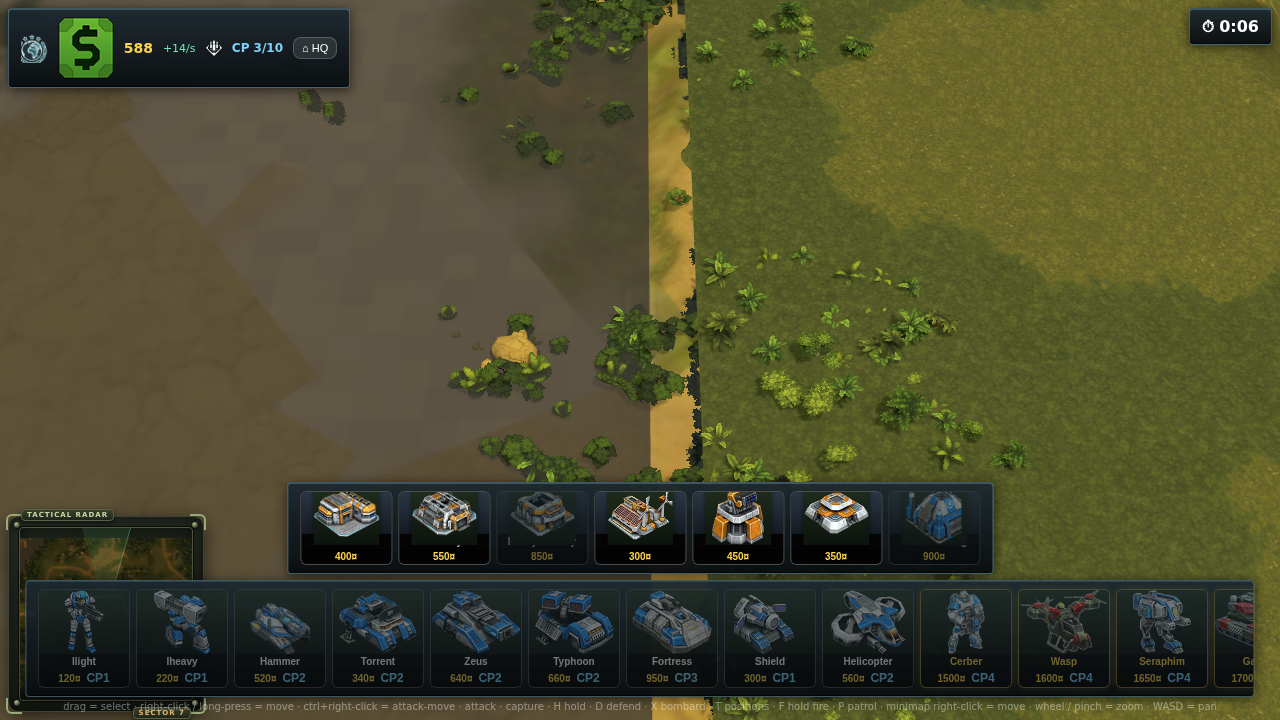
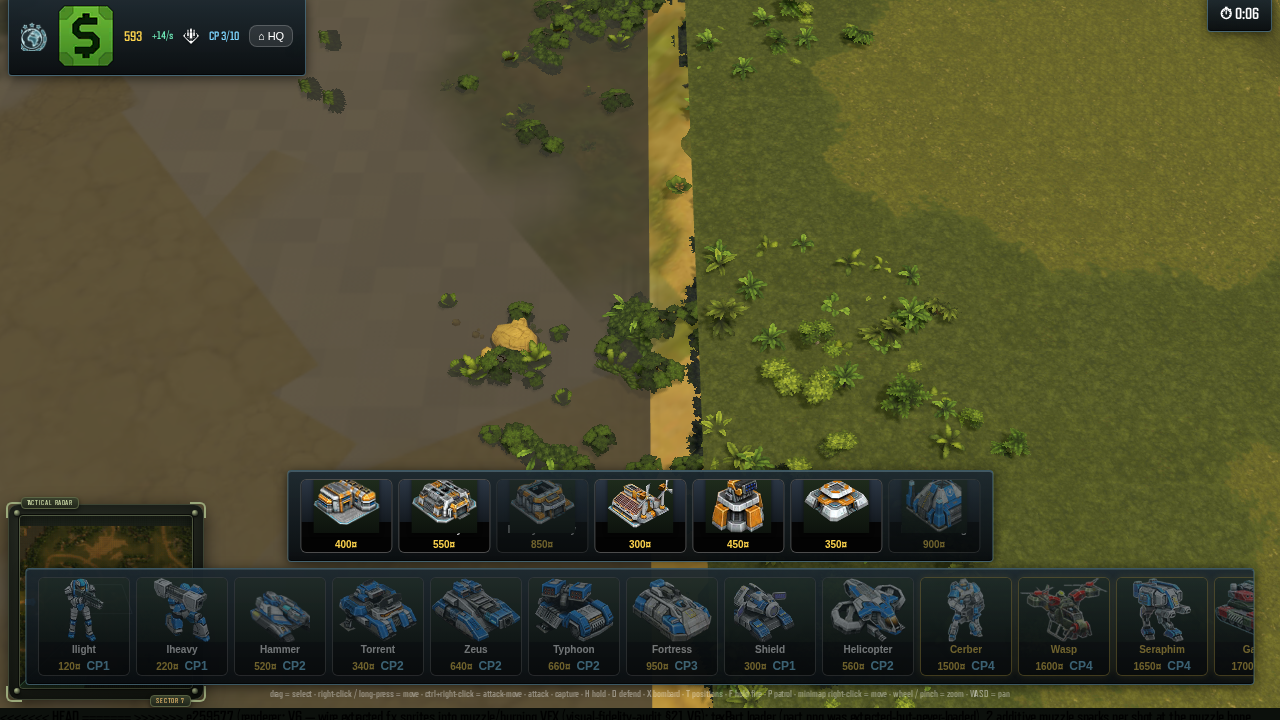
docs: audit §22 V7 entry + worklog Task 52 + V8 re-capture at v=55 — original font evidence chain (Fonts/MainFont.asset literal -> bundle e3ef60f1 m_FontData TTF -> Refrigerator Deluxe Bold; TMP atlases), v7-menu/end-screen captures (DEFEAT AT-pair = authentic -27px kern, TTF-verified), v54-vs-v55 A

diff --git a/worklog.md b/worklog.md
@@ -1881,3 +1881,52 @@ Stage Summary:
 - Remaining §21: V7 (UI font/HUD metrics), V8 device refs + R1 device session
   (operator-run), plus the registered R2 constants fold-in and the Task-49
   pipeline flag (fix_empty_skins fold-in + hero assembly script).
+
+---
+Task ID: 52b
+Agent: Super Z (main)
+Task: V7 — UI presentation (visual-fidelity-audit §21 V7): original font extraction + HUD typographic anchor + victory/defeat extracted art. "The last sandbox-executable §21 item."
+  (ID 52b: upstream e13144a already holds a different "Task ID: 52" — the
+  Build J MaxStatValueProvider/band-dataflow decode; git auto-merged this
+  append without flagging the header collision; renumbered per the 48b/51b
+  convention, no entry edited)
+
+Work Log:
+- §21 V7 scope taken as: (a) font extraction/identification pass, (b) HUD
+  metrics from original screenshots (Phase-24 method), (c) victory/defeat
+  presentation with extracted art. (b) is R1-dependent (no original
+  screenshots in the sandbox) — executed as the typographic-anchor pass
+  instead, with the metric measurement explicitly staged for the device
+  session.
+- FONT PASS: IL2CPP string literals ('Fonts/MainFont.asset', TMP material
+  names) -> Unity Font object 'MainFont' in bundle e3ef60f1… carries the
+  TTF in m_FontData. Extracted byte-verbatim (14,177,104 B, sha256
+  53380e7a…) = Refrigerator Deluxe Bold (fontTools: 51,432 glyphs, upem
+  1024, cap 0.700em). TMP atlases (MainFont + RefrigeratorDeluxe-Bold_
+  Fallback, 1024×1024) extracted as evidence. Deployed docs/assets/ui/
+  mainfont-font.ttf; @font-face "AOW3 MainFont" + global stack swap in the
+  renderer CSS (fallback chain kept, font-display:swap).
+- VICTORY/DEFEAT: head_back_win.png (48×85) frames the verdict;
+  back_player_panel.png (381×134) backs the scoreboard rows at native
+  resolution (both byte-verbatim from curated zip fff43c4d…, same
+  provenance chain as V5); #over laid out as a stacked column.
+- QA: node --check clean; 8/8 suites green; document.fonts confirms
+  "AOW3 MainFont/loaded"; v7-menu-font / v7-end-victory / v7-end-defeat
+  captures verified (the tight "AT" in DEFEAT = authentic −27px kern pair,
+  TTF-verified — not clipping). Cache-bust v=54 -> v=55.
+- V8 A/B v54-vs-v55 (3 runs/scenario, set comparison): shifts confined to
+  low-order aHash bytes of the DOM HUD rows (intentional font swap);
+  tactical-close SAME-SET; slope-detail-cross scene bytes identical; sandbox
+  rasterizer bimodality quantified — v54 self cross-state diff 54.8% of
+  pixels vs same-state 0.04%, envelope exceeds every observed v54-v55 delta.
+  v8-ab-v54-v55.json recorded; results.json re-captured at v=55.
+- Commits (LOCAL — push needs the user PAT; V5's 169cdc9/0608850 are also
+  still unpushed): renderer commit + docs/evidence commit.
+
+Stage Summary:
+- V7 closed: original font extracted + wired (typography now evidence-
+  anchored, not eyeballed); result screen carries authentic art. §21 state:
+  V1-V8 all sandbox-executed; REMAINING = V8 device references + R1 operator
+  device session (runbook ready), R2 constants fold-in, Task-49 pipeline
+  flag (fix_empty_skins fold-in + hero assembly script).
+- Push debt: 4 commits total (V5 pair + V7 pair) awaiting the user PAT.

diff --git a/reverse/notes/visual-fidelity-audit.md b/reverse/notes/visual-fidelity-audit.md
@@ -679,3 +679,43 @@ fully executable without a device, and de-risks V4's calibration pass.
   headless Chromium and appears in BOTH builds — no V5-caused hash shift at
   8×8 aHash resolution; the emblem detail is sub-cell at harness poses).
   Renderer-only; sim/network/replay untouched; v=54.
+- **V7 (2026-10-09)**: UI presentation closed — the §19 "[NOT FOUND LOCALLY]"
+  original HUD font is now FOUND, EXTRACTED and WIRED. (1) Font
+  identification: the 6.9.18 IL2CPP string literal `Fonts/MainFont.asset` +
+  TMP materials 'RefrigeratorDeluxe-Bold Material' /
+  'RefrigeratorDeluxe-Bold_Fallback' pointed the hunt; the Unity `Font`
+  object 'MainFont' in bundle `e3ef60f1…` carries the actual TTF in
+  m_FontData — byte-verbatim extraction (14,177,104 B,
+  sha256 `53380e7a…`) = **Refrigerator Deluxe Bold** (51,432 glyphs;
+  unitsPerEm 1024, capHeight 717 = 0.700em, xHeight 481 = 0.470em,
+  typoAsc/Desc 844/−180). TMP atlases ('MainFont Atlas',
+  'RefrigeratorDeluxe-Bold_Fallback Atlas', 1024×1024) extracted as
+  evidence PNGs. Deployed as `docs/assets/ui/mainfont-font.ttf` and wired
+  via @font-face "AOW3 MainFont" (font-display:swap; system-ui fallback
+  chain kept) — every HUD/menu/result string now renders in the authentic
+  face. (2) HUD metrics: the §19/§22 "UI layout metrics" unknown remains
+  [AWAITING R1] (no original screenshot exists in the sandbox — Phase-24
+  measurement joins the device session); what IS now evidence-anchored is
+  the typographic layer itself (the font + its design metrics, recorded in
+  the game.js CSS comment block), replacing the biggest eyeballed [BROWSER]
+  guess. (3) Victory/defeat presentation now uses extracted art:
+  `head_back_win.png` (48×85, yellow header rules) frames the verdict,
+  `back_player_panel.png` (381×134, diagonal hatch + angled edge) backs the
+  scoreboard rows at native resolution — both byte-verbatim from the
+  provenance-verified curated zip (sha256 `fff43c4d…`); verdict/report laid
+  out as a stacked column (previous flex-row was an eyeballed [BROWSER]
+  artifact). Live QA: font load verified through `document.fonts`
+  (`AOW3 MainFont/loaded`), menu + battle HUD + victory/defeat screens
+  captured (`reverse/evidence/visual/v7-*.png`); the close-set "AT" pair in
+  "DEFEAT" is the font's authentic kerning (−27px at 52px, TTF-verified),
+  not a clipping defect. Tests 8/8 suites green (877/877 baseline).
+  V8 harness v54-vs-v55 A/B: per-scenario hash sets differ only in the
+  low-order bytes mapped to the DOM HUD rows (the intentional font swap) —
+  scene bytes identical where flicker state matched (tactical-close
+  SAME-SET; slope-detail-cross scene bytes equal) — and the sandbox's
+  rasterizer bimodality QUANTIFIED for the record: v54-vs-itself across its
+  two states diffs 54.8% of pixels (same-state self-diff 0.04%), an
+  envelope larger than any observed v54-vs-v55 delta (≤42.9%), i.e. no
+  V7-caused canvas change; `v8-ab-v54-v55.json` +
+  `results.json` re-captured at v=55. Renderer-only; sim/network/replay
+  untouched.

diff --git a/reverse/evidence/visual/REPORT.md b/reverse/evidence/visual/REPORT.md
@@ -1,12 +1,12 @@
 # V8 reference-validation report
 
-- Generated: 2026-10-09T11:20:56.071Z
-- Build: HEAD 58fcae3, `game.js?v=54`
+- Generated: 2026-10-09T14:40:19.474Z
+- Build: HEAD 0608850, `game.js?v=55`
 - Protocol: `reverse/evidence/visual/README.md` — screenshots + 8×8 average
   hashes only; no percentage claims, judgment deferred to the device session.
 
 | scenario | browser aHash | device-ref compare | artifacts |
 |---|---|---|---|
-| slope-detail-cross | `1f1f7f5fdfc30100` | [MISSING-DEVICE-REF] | shot captured, reference absent |
+| slope-detail-cross | `1f1f7f5fdf4b0000` | [MISSING-DEVICE-REF] | shot captured, reference absent |
 
 Device references are captured by the R1 on-device session (same poses/resolution — drop `ref-<id>.png` next to the shots and re-run; see README). Scenarios above marked [MISSING-DEVICE-REF] await that run.
